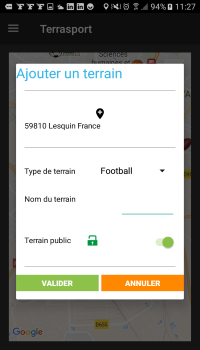
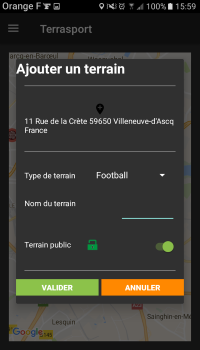
mise à jour des vues pour adapter au thème de l'application + ajout des screens

diff --git a/app/src/main/java/com/terrasport/fragment/TerrainFragment.java b/app/src/main/java/com/terrasport/fragment/TerrainFragment.java
@@ -42,7 +42,6 @@ import android.widget.ImageView;
 import android.widget.Spinner;
 import android.widget.TextView;
 import android.widget.TimePicker;
-import android.widget.Toast;
 
 import com.google.android.gms.maps.CameraUpdateFactory;
 import com.google.android.gms.maps.GoogleMap;
@@ -51,7 +50,6 @@ import com.google.android.gms.maps.SupportMapFragment;
 import com.google.android.gms.maps.model.BitmapDescriptor;
 import com.google.android.gms.maps.model.BitmapDescriptorFactory;
 import com.google.android.gms.maps.model.LatLng;
-import com.google.android.gms.maps.model.MapStyleOptions;
 import com.google.android.gms.maps.model.Marker;
 import com.google.android.gms.maps.model.MarkerOptions;
 import com.google.gson.Gson;
@@ -258,10 +256,10 @@ public class TerrainFragment extends Fragment implements OnMapReadyCallback, Goo
                 drawable = R.drawable.map_marker_foot;
                 break;
             case 2:
-                drawable = R.drawable.map_marker_basket;
+                drawable = R.drawable.map_marker_rugby;
                 break;
             case 3:
-                drawable = R.drawable.map_marker_rugby;
+                drawable = R.drawable.map_marker_basket;
                 break;
             case 4:
                 drawable = R.drawable.map_marker_handball;
@@ -274,6 +272,9 @@ public class TerrainFragment extends Fragment implements OnMapReadyCallback, Goo
                 break;
             case 7:
                 drawable = R.drawable.map_marker_tennis;
+                break;
+            case 8:
+                drawable = R.drawable.map_marker_volleyball;
                 break;
         }
         BitmapDescriptor bitmap = BitmapDescriptorFactory.fromBitmap(getMarkerBitmapFromView(drawable, terrain.getIsPublic()));
@@ -315,14 +316,8 @@ public class TerrainFragment extends Fragment implements OnMapReadyCallback, Goo
     }
 
     private Bitmap getMarkerBitmapFromView(@DrawableRes int resId, boolean isPublic) {
-        View customMarkerView = ((LayoutInflater) getContext().getSystemService(Context.LAYOUT_INFLATER_SERVICE)).inflate(R.layout.view_custom_marker_public, null);
+        View customMarkerView = ((LayoutInflater) getContext().getSystemService(Context.LAYOUT_INFLATER_SERVICE)).inflate(R.layout.view_custom_marker, null);
         ImageView markerImageView = (ImageView) customMarkerView.findViewById(R.id.marker_image);
-        ImageView markerPublicImageView = (ImageView) customMarkerView.findViewById(R.id.public_image);
-        if(Boolean.TRUE.equals(isPublic)) {
-            markerPublicImageView.setImageResource(R.drawable.image_terrain_public);
-        } else {
-            markerPublicImageView.setImageResource(R.drawable.image_terrain_prive);
-        }
         markerImageView.setImageResource(resId);
         customMarkerView.measure(View.MeasureSpec.UNSPECIFIED, View.MeasureSpec.UNSPECIFIED);
         customMarkerView.layout(0, 0, customMarkerView.getMeasuredWidth(), customMarkerView.getMeasuredHeight());
@@ -352,10 +347,10 @@ public class TerrainFragment extends Fragment implements OnMapReadyCallback, Goo
                         drawable = R.drawable.map_marker_foot;
                         break;
                     case 2:
-                        drawable = R.drawable.map_marker_basket;
+                        drawable = R.drawable.map_marker_rugby;
                         break;
                     case 3:
-                        drawable = R.drawable.map_marker_rugby;
+                        drawable = R.drawable.map_marker_basket;
                         break;
                     case 4:
                         drawable = R.drawable.map_marker_handball;
@@ -368,6 +363,9 @@ public class TerrainFragment extends Fragment implements OnMapReadyCallback, Goo
                         break;
                     case 7:
                         drawable = R.drawable.map_marker_tennis;
+                        break;
+                    case 8:
+                        drawable = R.drawable.map_marker_volleyball;
                         break;
                 }
                 bitmap = BitmapDescriptorFactory.fromBitmap(getMarkerBitmapFromView(drawable, this.terrains.get(i).getIsPublic()));
@@ -489,7 +487,7 @@ public class TerrainFragment extends Fragment implements OnMapReadyCallback, Goo
             spinner.setOnItemSelectedListener(new AdapterView.OnItemSelectedListener() {
                 @Override
                 public void onItemSelected(AdapterView<?> parent, View view, int position, long id) {
-                    ((TextView) view).setTextColor(Color.BLACK);
+                    ((TextView) view).setTextColor(Color.WHITE);
                     niveauCible = niveaux.get(position);
                 }
                 @Override
@@ -628,7 +626,7 @@ public class TerrainFragment extends Fragment implements OnMapReadyCallback, Goo
         spinner.setOnItemSelectedListener(new AdapterView.OnItemSelectedListener() {
             @Override
             public void onItemSelected(AdapterView<?> parent, View view, int position, long id) {
-                ((TextView) view).setTextColor(Color.BLACK);
+                ((TextView) view).setTextColor(Color.WHITE);
                 sportSelected = sports.get(position);
             }
             @Override
@@ -650,8 +648,6 @@ public class TerrainFragment extends Fragment implements OnMapReadyCallback, Goo
             @Override
             public void onClick(View v) {
                 // Close dialog
-                //fragmentManager.beginTransaction().remove(f).commit();
-                //finish();
                 addTerrain(latLng);
                 dialog.dismiss();
             }
@@ -660,13 +656,7 @@ public class TerrainFragment extends Fragment implements OnMapReadyCallback, Goo
     }
 
     public void filtreMarkers(Sport sportSelected) {
-        /*
-        for(int i = 0; i < this.mMarkersHashMap.size(); i++) {
-            if(this.mMarkersHashMap.get(i).getSport().getId().equals(sportSelected.getId())) {
-                this.mMarkersHashMap.get(this.mMarkersHashMap.get(i)).
-            }
-        }
-        */
+        // TODO a implémenter
         Set<Marker> keys = this.mMarkersHashMap.keySet();
         Iterator<Marker> iterator = keys.iterator();
         while(iterator.hasNext()){
@@ -733,10 +723,10 @@ public class TerrainFragment extends Fragment implements OnMapReadyCallback, Goo
                 drawable = R.drawable.map_marker_foot;
                 break;
             case 2:
-                drawable = R.drawable.map_marker_basket;
+                drawable = R.drawable.map_marker_rugby;
                 break;
             case 3:
-                drawable = R.drawable.map_marker_rugby;
+                drawable = R.drawable.map_marker_basket;
                 break;
             case 4:
                 drawable = R.drawable.map_marker_handball;
@@ -749,6 +739,9 @@ public class TerrainFragment extends Fragment implements OnMapReadyCallback, Goo
                 break;
             case 7:
                 drawable = R.drawable.map_marker_tennis;
+                break;
+            case 8:
+                drawable = R.drawable.map_marker_volleyball;
                 break;
         }
         return drawable;

diff --git a/app/src/main/java/com/terrasport/adapter/EvenementUtilisateurRecyclerViewAdapter.java b/app/src/main/java/com/terrasport/adapter/EvenementUtilisateurRecyclerViewAdapter.java
@@ -87,18 +87,30 @@ public class EvenementUtilisateurRecyclerViewAdapter extends RecyclerView.Adapte
         holder.progressBarParticipants.setMax(mValues.get(position).getNbPlaces());
         holder.progressBarParticipants.setProgress(mValues.get(position).getNbParticipants());
 
-        switch(mValues.get(position).getTerrain().getSport().getId()) {
+        switch(mValues.get(position).getSport().getId()) {
             case 1:
                 holder.imageSport.setImageResource(R.drawable.map_marker_foot);
                 break;
             case 2:
-                holder.imageSport.setImageResource(R.drawable.map_marker_basket);
-                break;
-            case 3:
                 holder.imageSport.setImageResource(R.drawable.map_marker_rugby);
                 break;
+            case 3:
+                holder.imageSport.setImageResource(R.drawable.map_marker_basket);
+                break;
             case 4:
-                holder.imageSport.setImageResource(R.drawable.map_marker_foot);
+                holder.imageSport.setImageResource(R.drawable.map_marker_handball);
+                break;
+            case 5:
+                holder.imageSport.setImageResource(R.drawable.map_marker_golf);
+                break;
+            case 6:
+                holder.imageSport.setImageResource(R.drawable.map_marker_baseball);
+                break;
+            case 7:
+                holder.imageSport.setImageResource(R.drawable.map_marker_tennis);
+                break;
+            case 8:
+                holder.imageSport.setImageResource(R.drawable.map_marker_volleyball);
                 break;
         }
 
@@ -109,7 +121,6 @@ public class EvenementUtilisateurRecyclerViewAdapter extends RecyclerView.Adapte
                     // Notify the active callbacks interface (the activity, if the
                     // fragment is attached to one) that an item has been selected.
                     mListener.onListFragmentInteraction(holder.mItem);
-                    Toast.makeText(mContext, "Test", Toast.LENGTH_SHORT);
                     getListOfDemandesParticipationsEvenement(holder.mItem);
 
                 }

diff --git a/app/src/main/java/com/terrasport/adapter/EvenementRecyclerViewAdapter.java b/app/src/main/java/com/terrasport/adapter/EvenementRecyclerViewAdapter.java
@@ -1,6 +1,5 @@
 package com.terrasport.adapter;
 
-import android.app.Activity;
 import android.app.Dialog;
 import android.content.Context;
 import android.location.Address;
@@ -17,7 +16,6 @@ import android.widget.ImageView;
 import android.widget.TextView;
 import android.widget.Toast;
 
-import com.google.gson.Gson;
 import com.terrasport.R;
 import com.terrasport.fragment.EvenementFragment;
 import com.terrasport.model.DemandeParticipation;
@@ -101,18 +99,30 @@ public class EvenementRecyclerViewAdapter extends RecyclerView.Adapter<Evenement
         holder.progressBarParticipants.setMax(mValues.get(position).getNbPlaces());
         holder.progressBarParticipants.setProgress(mValues.get(position).getNbParticipants());
 
-        switch(mValues.get(position).getTerrain().getSport().getId()) {
+        switch(mValues.get(position).getSport().getId()) {
             case 1:
                 holder.imageSport.setImageResource(R.drawable.map_marker_foot);
                 break;
             case 2:
-                holder.imageSport.setImageResource(R.drawable.map_marker_basket);
-                break;
-            case 3:
                 holder.imageSport.setImageResource(R.drawable.map_marker_rugby);
                 break;
+            case 3:
+                holder.imageSport.setImageResource(R.drawable.map_marker_basket);
+                break;
             case 4:
-                holder.imageSport.setImageResource(R.drawable.map_marker_foot);
+                holder.imageSport.setImageResource(R.drawable.map_marker_handball);
+                break;
+            case 5:
+                holder.imageSport.setImageResource(R.drawable.map_marker_golf);
+                break;
+            case 6:
+                holder.imageSport.setImageResource(R.drawable.map_marker_baseball);
+                break;
+            case 7:
+                holder.imageSport.setImageResource(R.drawable.map_marker_tennis);
+                break;
+            case 8:
+                holder.imageSport.setImageResource(R.drawable.map_marker_volleyball);
                 break;
         }
 

diff --git a/app/src/main/java/com/terrasport/fragment/EvenementUtilisateurFragment.java b/app/src/main/java/com/terrasport/fragment/EvenementUtilisateurFragment.java
@@ -127,6 +127,7 @@ public class EvenementUtilisateurFragment extends Fragment {
                              Bundle savedInstanceState) {
         View view = inflater.inflate(R.layout.fragment_evenement_utilisateur_list, container, false);
         View myRecyclerView = (RecyclerView) view.findViewById(R.id.recycler_list_evenement_utilisateur);
+        /*
         addEvenementButton = (FloatingActionButton) view.findViewById(R.id.floatingActionButton);
         addEvenementButton.setOnClickListener(new View.OnClickListener() {
             @Override
@@ -134,6 +135,7 @@ public class EvenementUtilisateurFragment extends Fragment {
                 
             }
         });
+        */
         if (myRecyclerView instanceof RecyclerView) {
             Context context = view.getContext();
             adapter = new EvenementUtilisateurRecyclerViewAdapter(this.evenements, mListener, getContext(), this, utilisateur);

diff --git a/app/src/main/java/com/terrasport/view/MapSearchView.java b/app/src/main/java/com/terrasport/view/MapSearchView.java
@@ -91,6 +91,9 @@ public class MapSearchView extends LinearLayout  {
                             case 7:
                                 terrainFragment.searchButton.setBackgroundResource(R.drawable.map_marker_tennis);
                                 break;
+                            case 8:
+                                terrainFragment.searchButton.setBackgroundResource(R.drawable.map_marker_volleyball);
+                                break;
                         }
                         setIsVisible(!isVisible);
                         setVisibility(View.GONE);

diff --git a/README.md b/README.md
@@ -5,11 +5,11 @@ Application Android qui permet de répertorier les terrains sportifs, d'en ajout
 ## Fonctionnalités de l'application
 
 - Connexion
-- Création d'un compte
-- Visualiser ses évèements, créer un évènement
+- Création d'un compte utilisateur
+- Visualiser ses évènements, créer un évènement
 - Demander à participer à un évènement sportif
-- Refuser / Valider la demande de participation d'un utilisateur à son évènement
-- Visualiser l'ensemble des terrains sur la google map avec possibilité d'ajouter un terrain
+- Refuser / Valider la demande de participation d'un utilisateur à un de ses évènements
+- Visualiser l'ensemble des terrains sur la google map avec possibilité d'ajouter un terrain ou un évènement sur un terrain
 
 
 ## Screenshots de l'application
@@ -41,7 +41,9 @@ Application Android qui permet de répertorier les terrains sportifs, d'en ajout
 
 ![Screenshot](./screens/map.png)
 
-### Visualiser le détail d'un terrain
+![Screenshot](./screens/map_filtre.png)
+
+### Visualiser le détail des informations sur un terrain
 
 ![Screenshot](./screens/map_click_marker.png)
 
